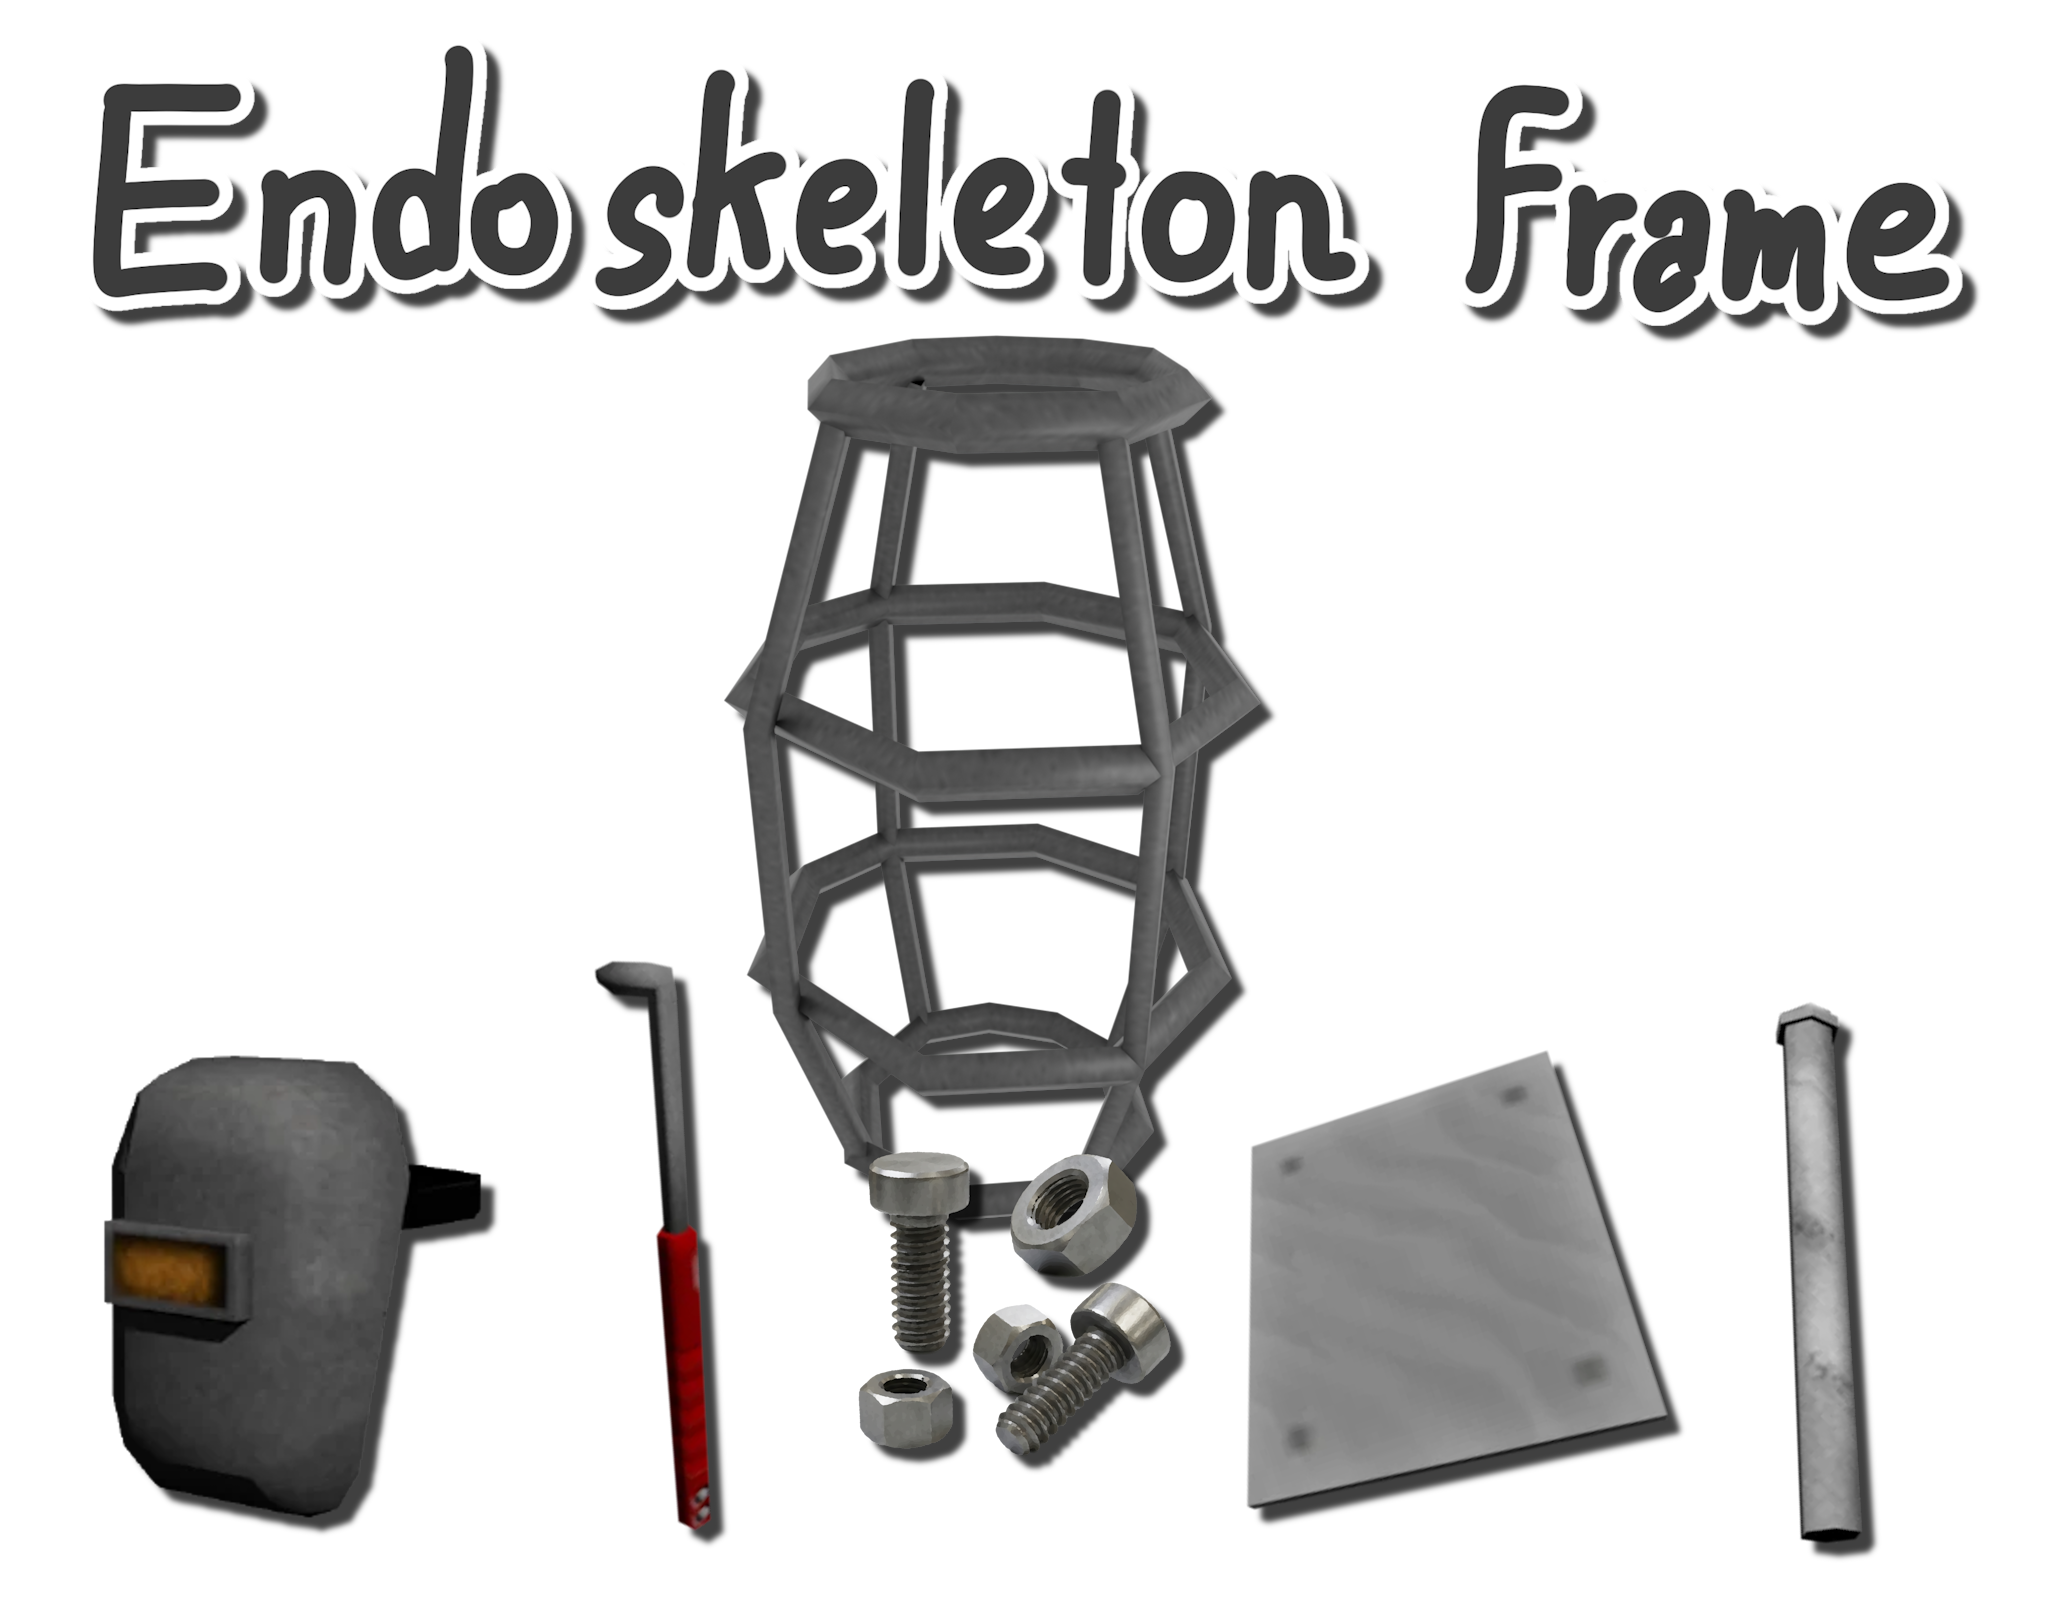
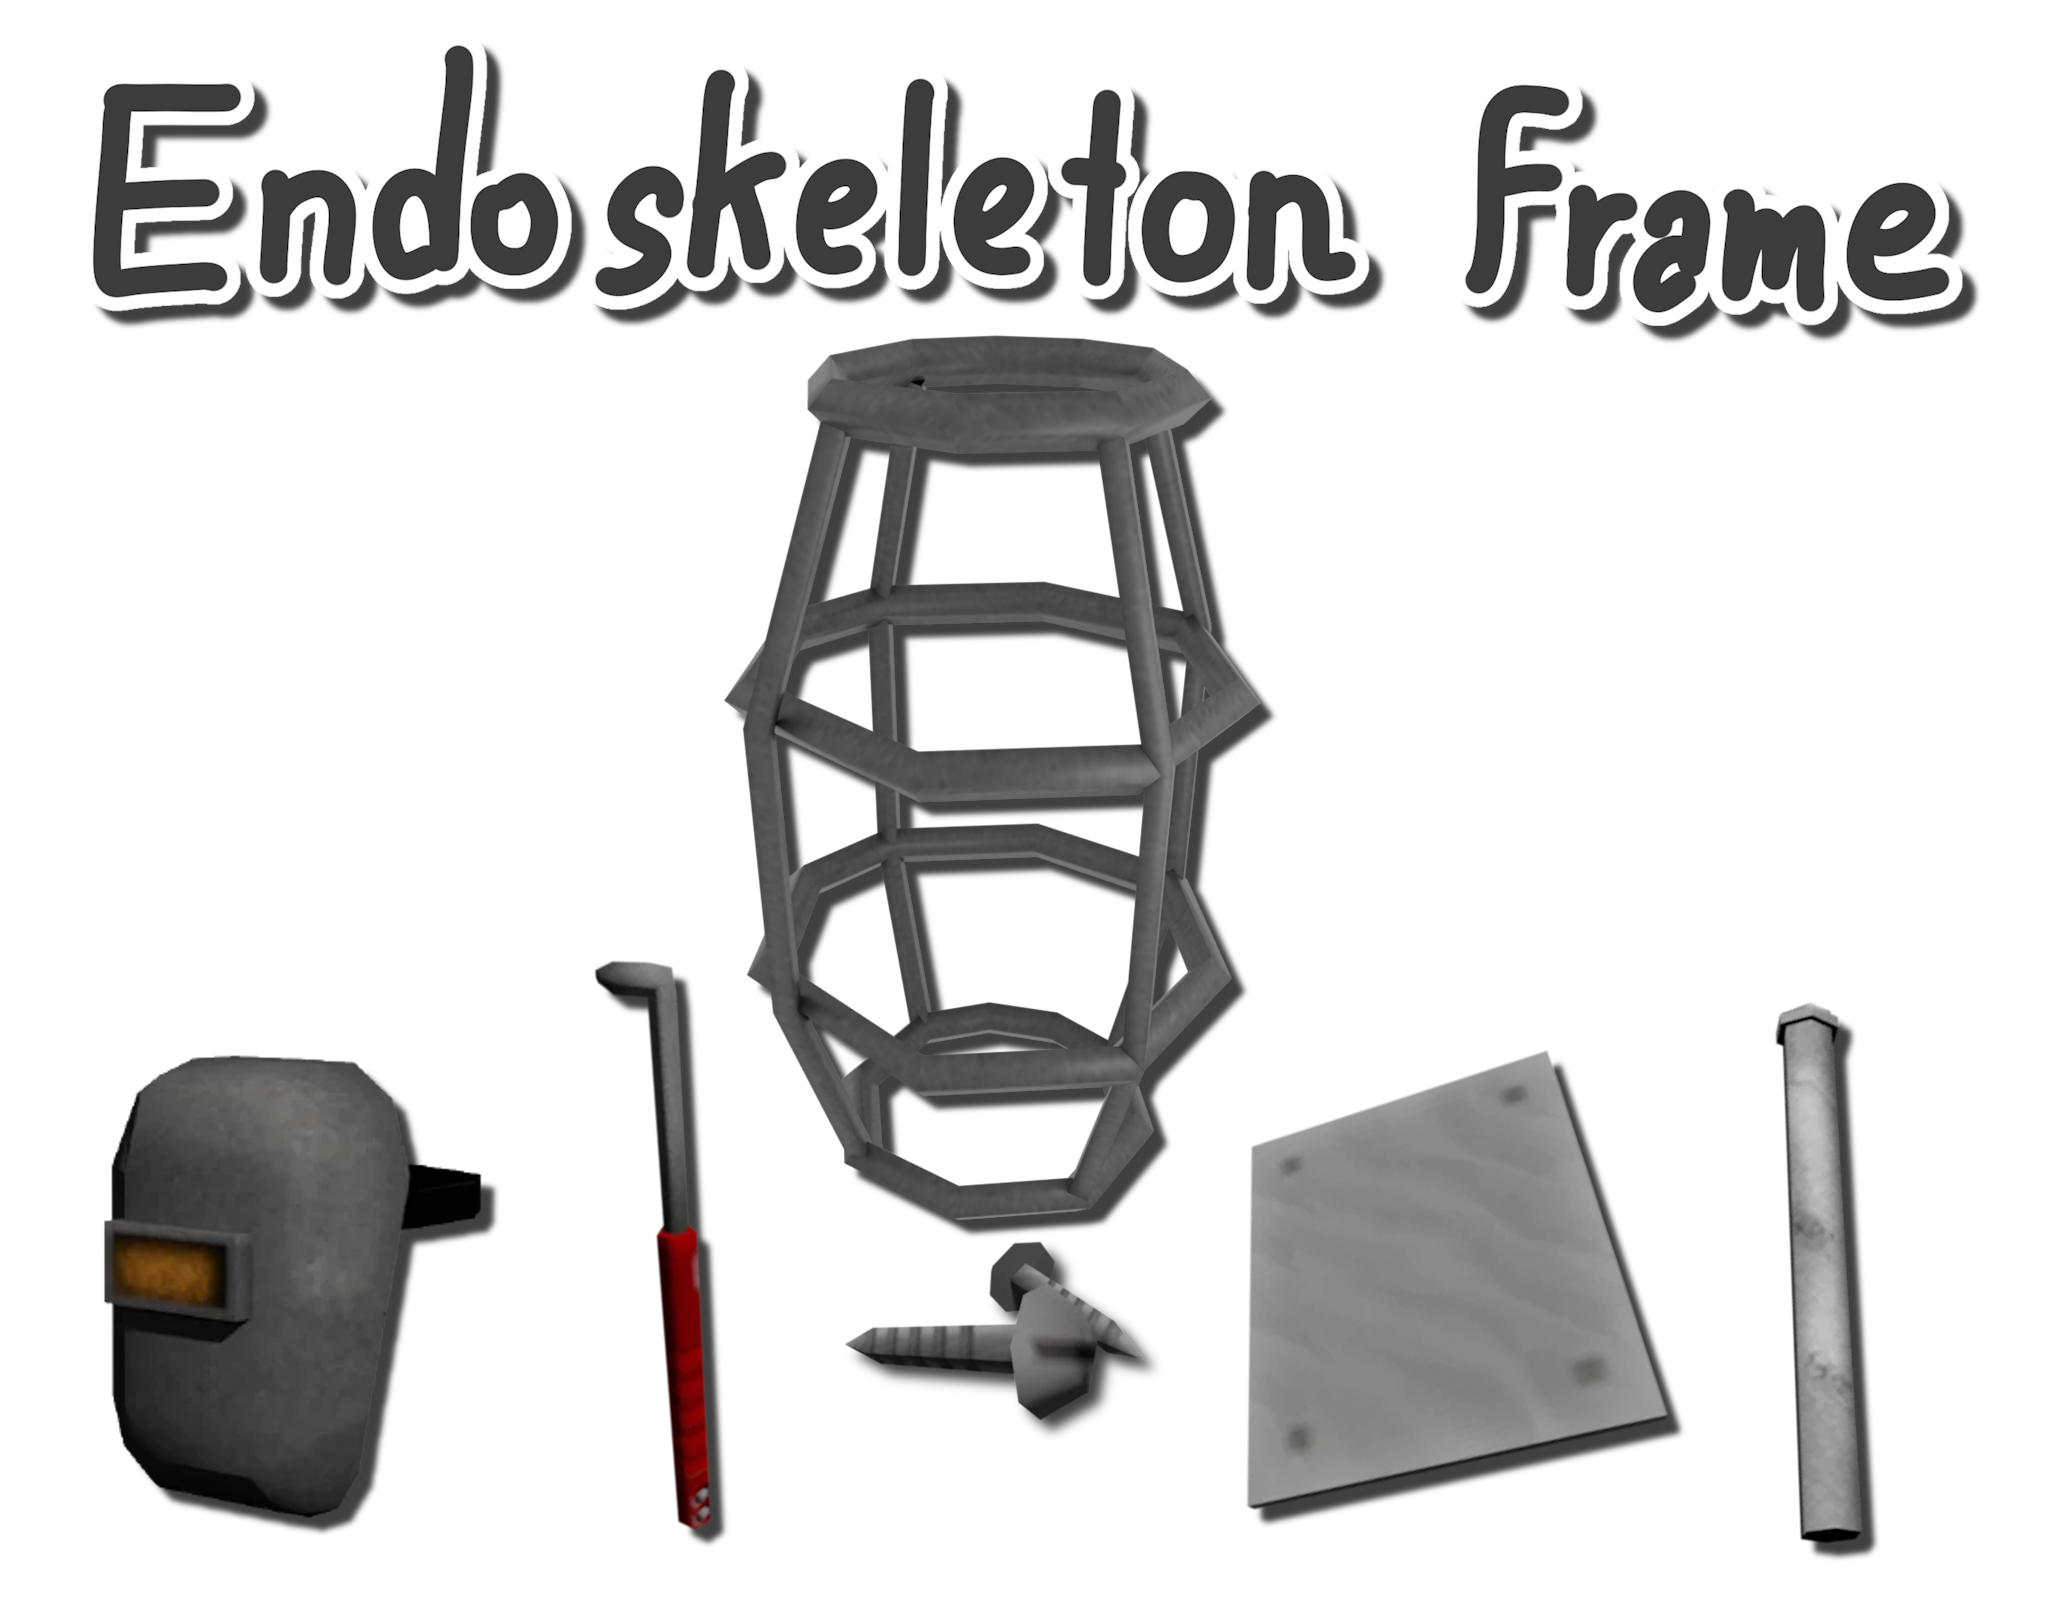
Update

Changed region(s): [[0.4062, 0.7188, 0.5938, 0.9375]]

diff --git a/ArtGallery.html b/ArtGallery.html
@@ -243,6 +243,16 @@
                 </div>
             </div>
 
+            <div class="CardB-card">
+                <div class="gallery-img-box">
+                    <img src="GFX/FNAF12Years.png" alt="Model 3">
+                </div>
+                <div class="Card-info-text">
+                    <h4>Five Nights at Freddy's</h4>
+                    <p>Steel Wool Studio</p>
+                </div>
+            </div>
+
         </div>
     </section>
 
